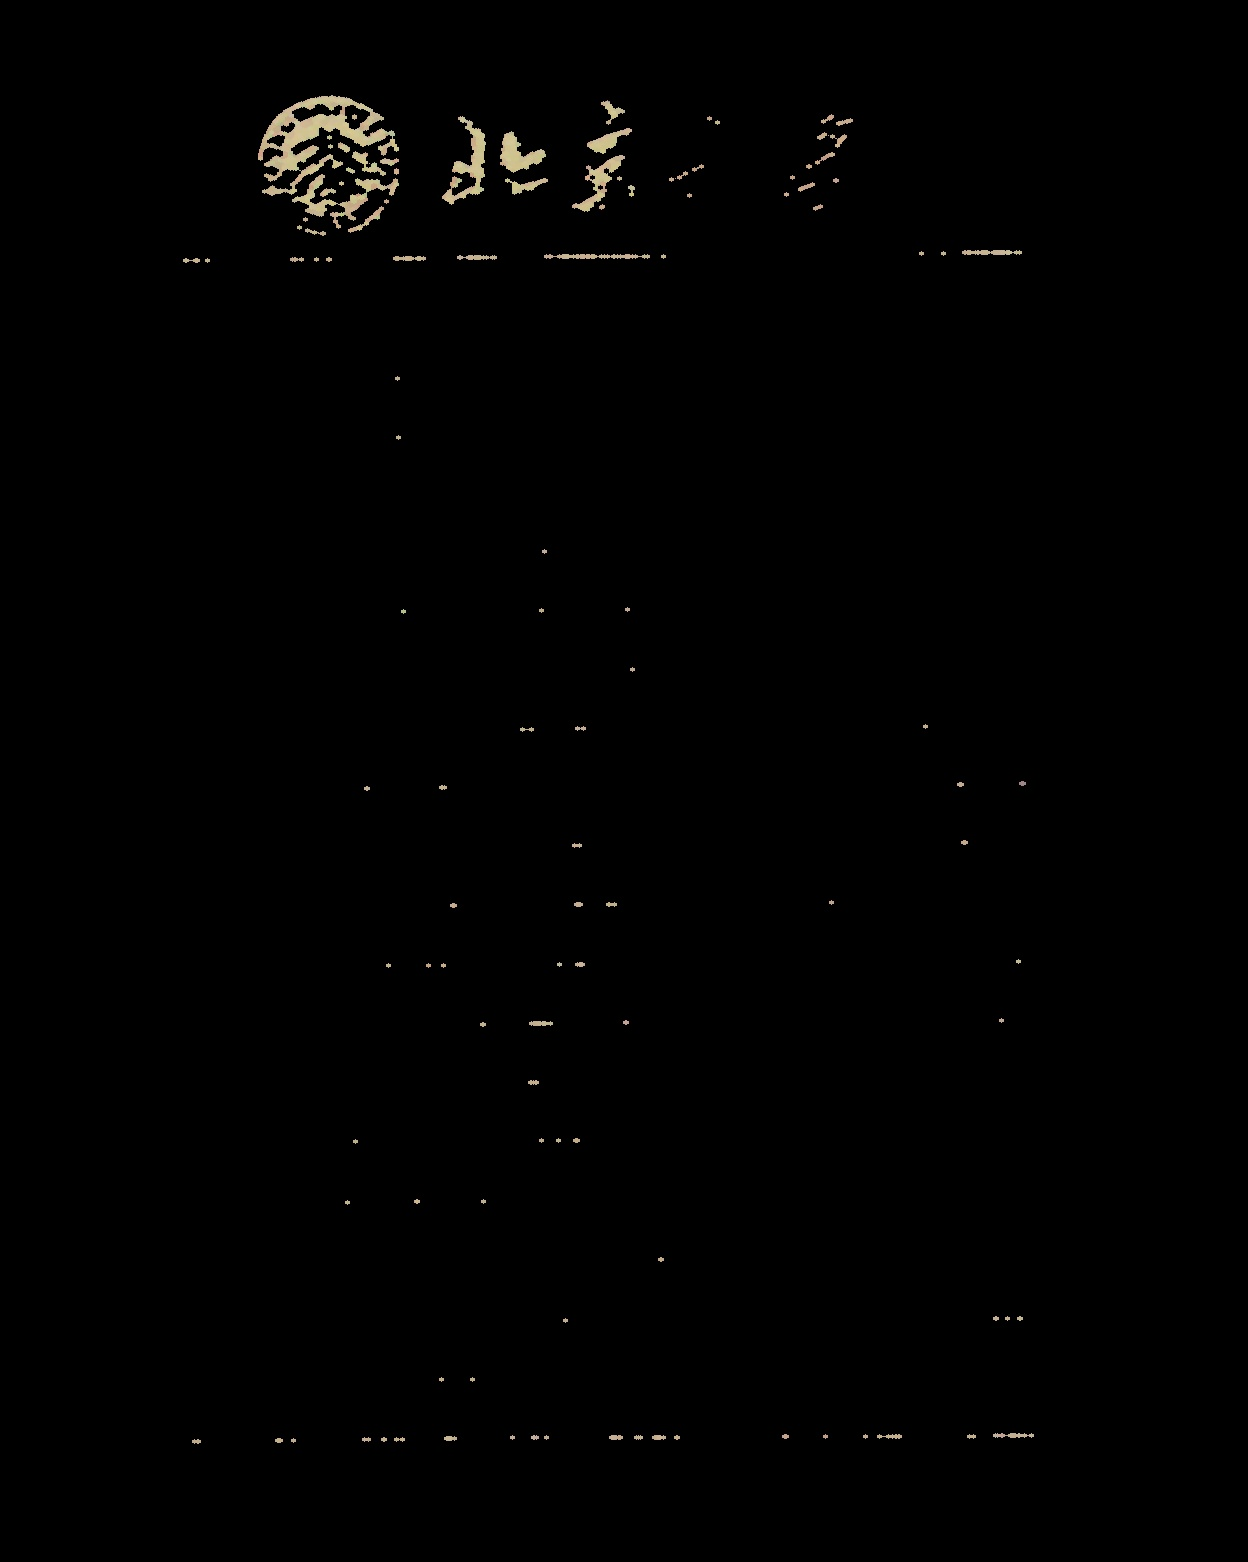
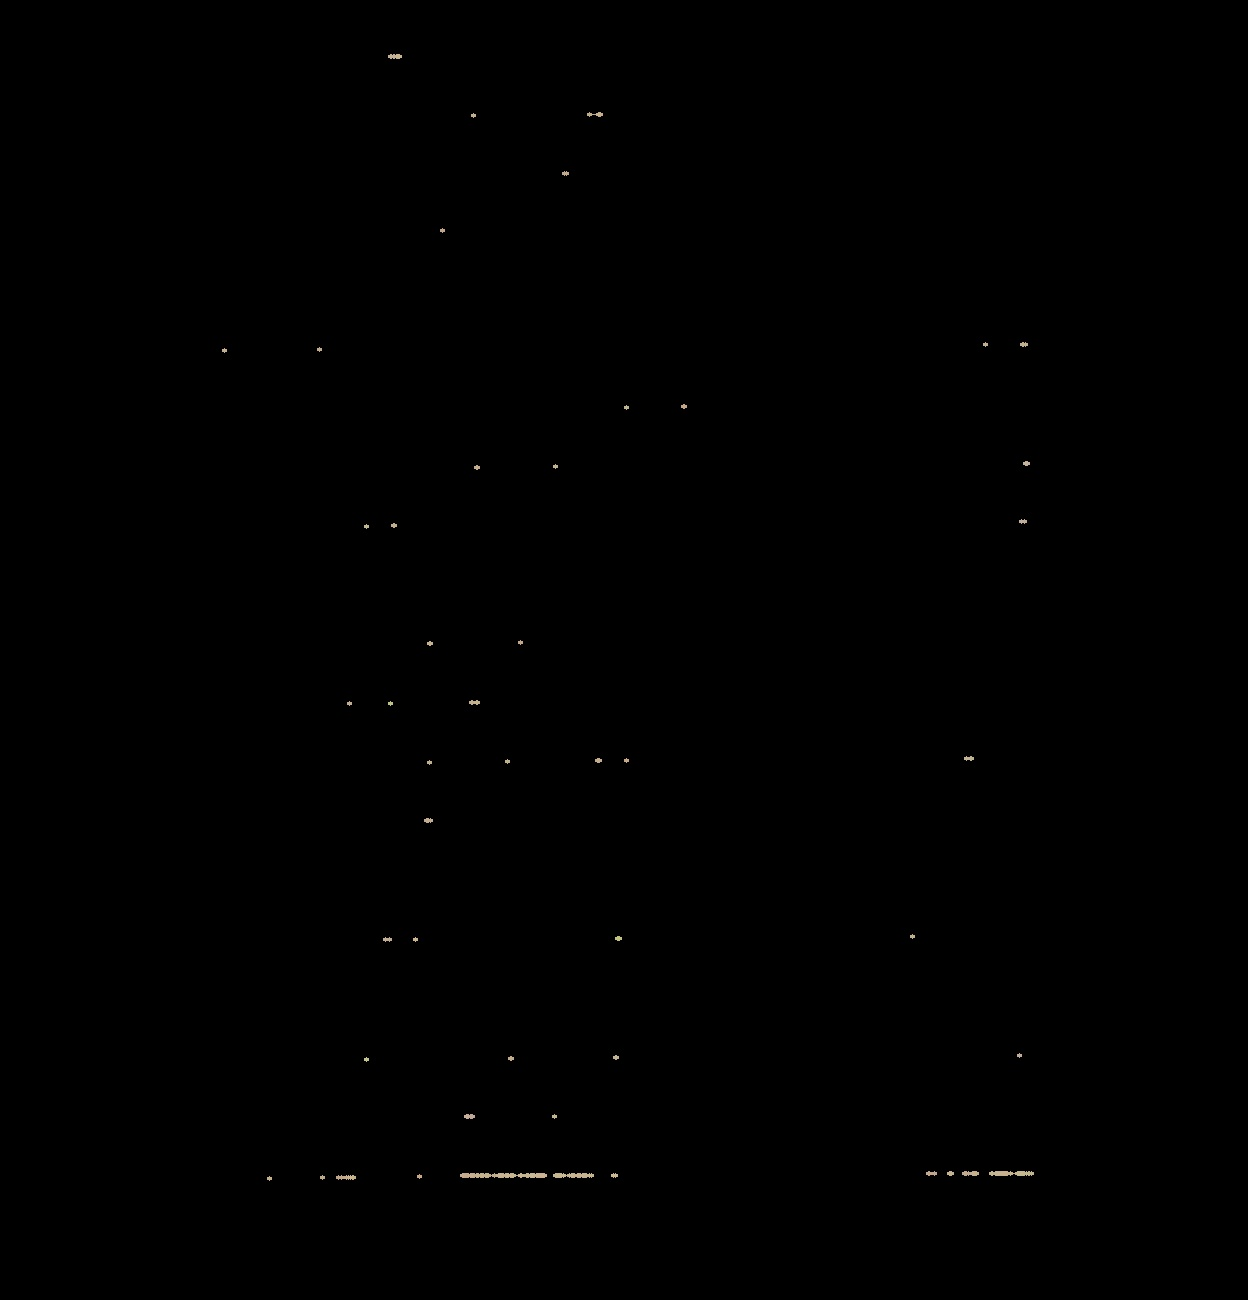
anno choose

diff --git a/ddr/src/main.py b/ddr/src/main.py
@@ -22,7 +22,7 @@ TEST_FILES = '../preproc/'
 RESULT_FILES = '../results/'
 
 FONT_FILE = 'UbuntuMono-R.ttf'
-FONT_SIZE = 30
+FONT_SIZE = 24
 TEST_FONT = '5'
 TRAIN_SIZE = 10000
 
@@ -34,11 +34,39 @@ bin_n = 16  # Number of bins
 affine_flags = cv2.WARP_INVERSE_MAP | cv2.INTER_LINEAR
 
 
+def overlap(d1, d2):
+    x11, y11, x12, y12 = (d1[0], d1[1], d1[0]+d1[2], d1[1]+d1[3])
+    x21, y21, x22, y22 = (d2[0], d2[1], d2[0]+d2[2], d2[1]+d2[3])
+    return (x11 <= x21) and (y11 <= y21) and(x12 >= x22) and (y12 >= y22)
+
+
+def choose(digits, lab, prob):
+    chosen = []
+    n = lab.size
+    for i in range(n):
+        if prob[i] >= 0.5:
+            continue
+        flag = False
+        for j in range(n):
+            if j == i:
+                continue
+            if overlap(digits[i], digits[j]):
+                flag = True
+                break
+        if not flag:
+            chosen.append(i)
+    chosen = np.uint8(chosen)
+    digits = digits[chosen]
+    lab = lab[chosen]
+    prob = prob[chosen]
+    return digits, lab, prob
+
+
 def main():
     images, labels, num, rows, cols = get_data(LABEL_FILE,
                                                IMAGE_FILE)
 
-    filenames = glob(TEST_FILES + "2.jpg")
+    filenames = glob(TEST_FILES + "*.jpg")
     for filename in filenames:
         print 'Processing', filename
         img = cv2.imread(filename)
@@ -52,6 +80,9 @@ def main():
 
         # yhat:list of str=label+prob
         lab, prob = pred.main(test)
+
+        digits, lab, prob = choose(digits, lab, prob)
+
         yhat = ['%d,%.2f' % (lab[i], prob[i]) for i in range(lab.size)]
 
         font = ImageFont.truetype(FONT_FILE, FONT_SIZE)

diff --git a/ddr/dev/col.py b/ddr/dev/col.py
@@ -4,6 +4,7 @@ from glob import glob
 filenames = glob("*.jpg")
 for f in filenames:
     img = cv2.imread(f)
+    img = img[525:, :, :]
     img = cv2.resize(img, None, fx=0.5, fy=0.5)
     img = 255 - img
     oimg = img
@@ -29,11 +30,11 @@ for f in filenames:
     oimg = cv2.dilate(oimg, kernel, iterations=2)
     # kernel = cv2.getStructuringElement(cv2.MORPH_ELLIPSE, (3, 3))
     oimg = cv2.erode(oimg, kernel)
- 
-    # out = oimg[0:900, 0:1600, :]
-    # cv2.imshow(f, out)
-    # cv2.waitKey(0)
-    # cv2.destroyAllWindows()
+
+    out = oimg[0:900, 0:1600, :]
+    cv2.imshow(f, out)
+    cv2.waitKey(0)
+    cv2.destroyAllWindows()
 
     cv2.imwrite('../preproc/'+f, oimg)
 

diff --git a/ddr/src/recognize.py b/ddr/src/recognize.py
@@ -77,5 +77,5 @@ def annotate_recognition(im, regions, labels, font, color=255):
     size = get_font_size(font)
     for idx, (x, y, w, h) in enumerate(regions):
         draw.text(
-            (x+w-size, y+h-size), str(labels[idx]), font=font, fill=color)
+            (x, y+h), str(labels[idx]), font=font, fill=color)
     return clone
